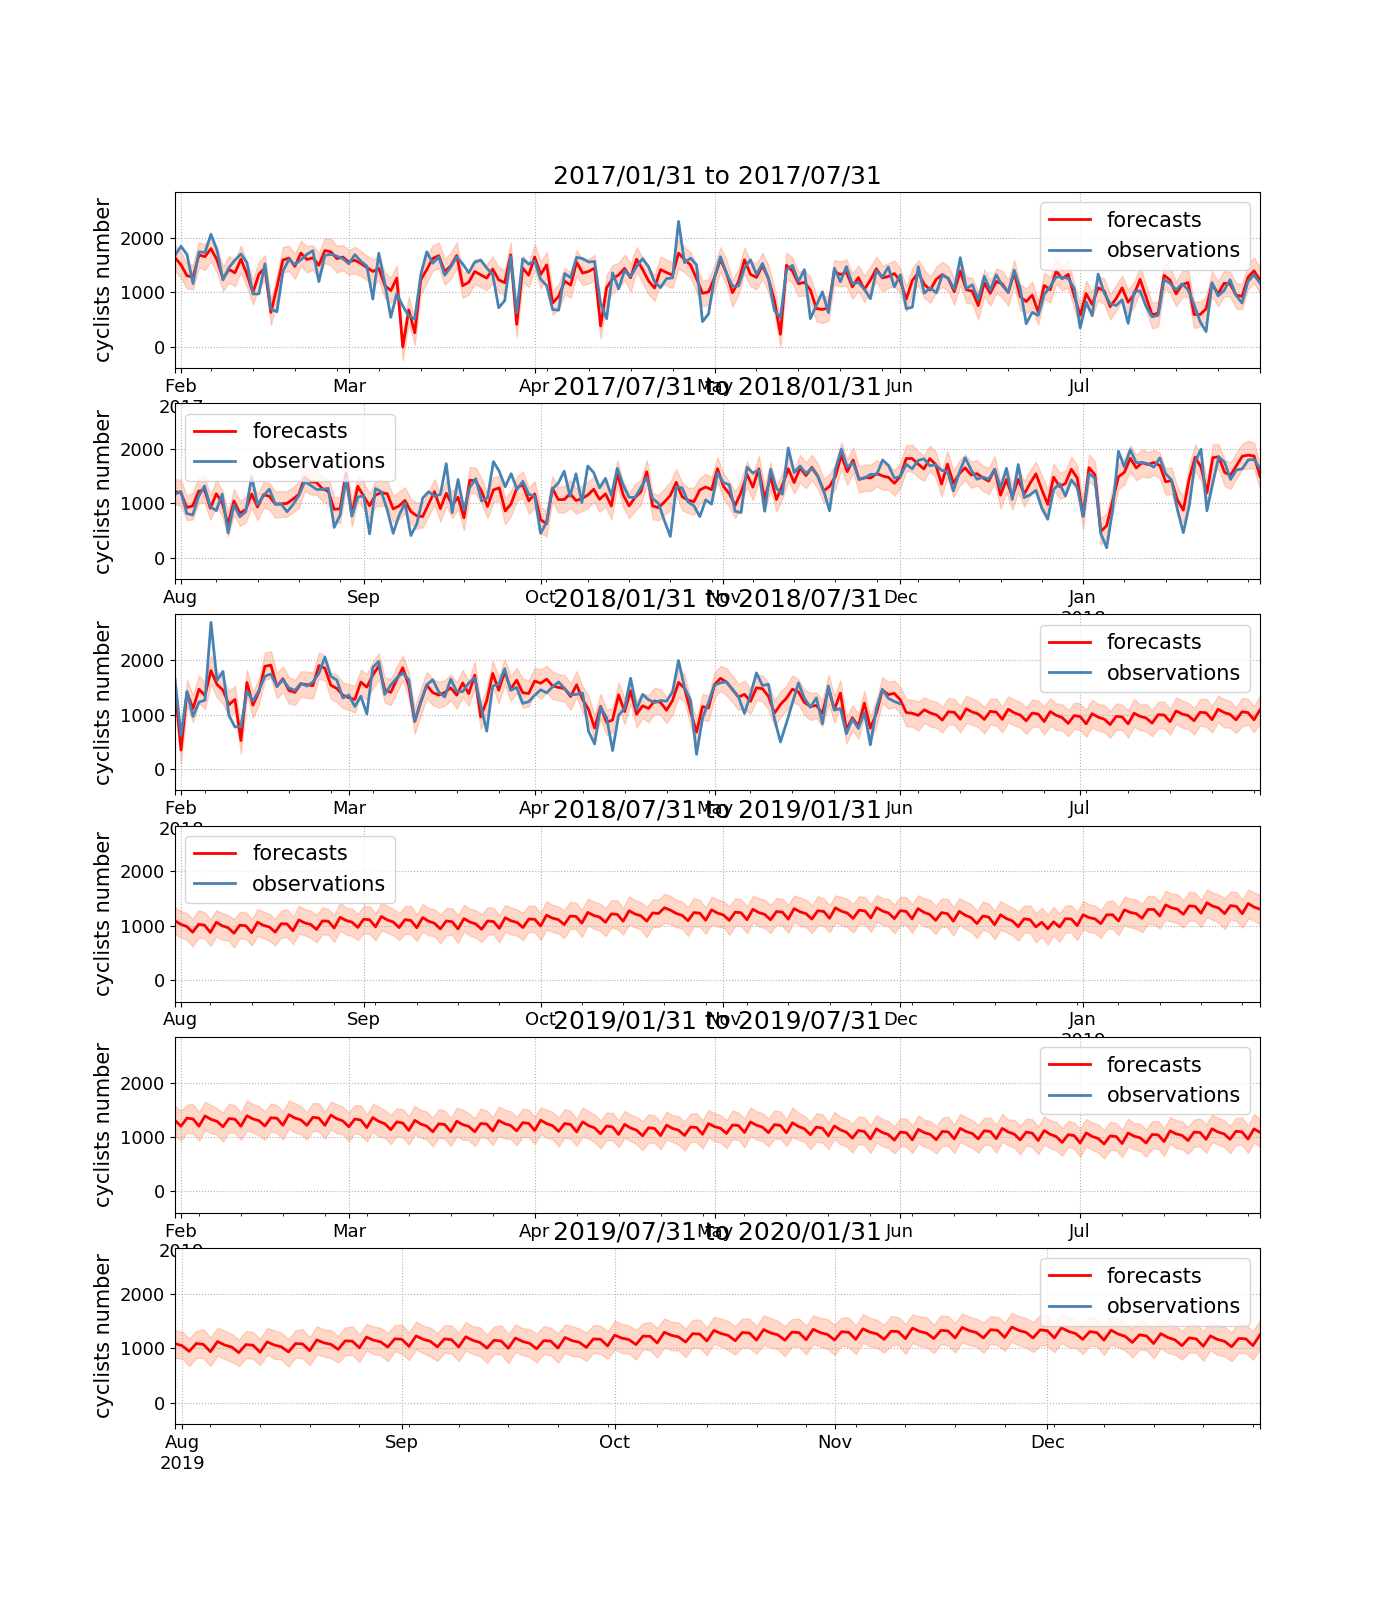
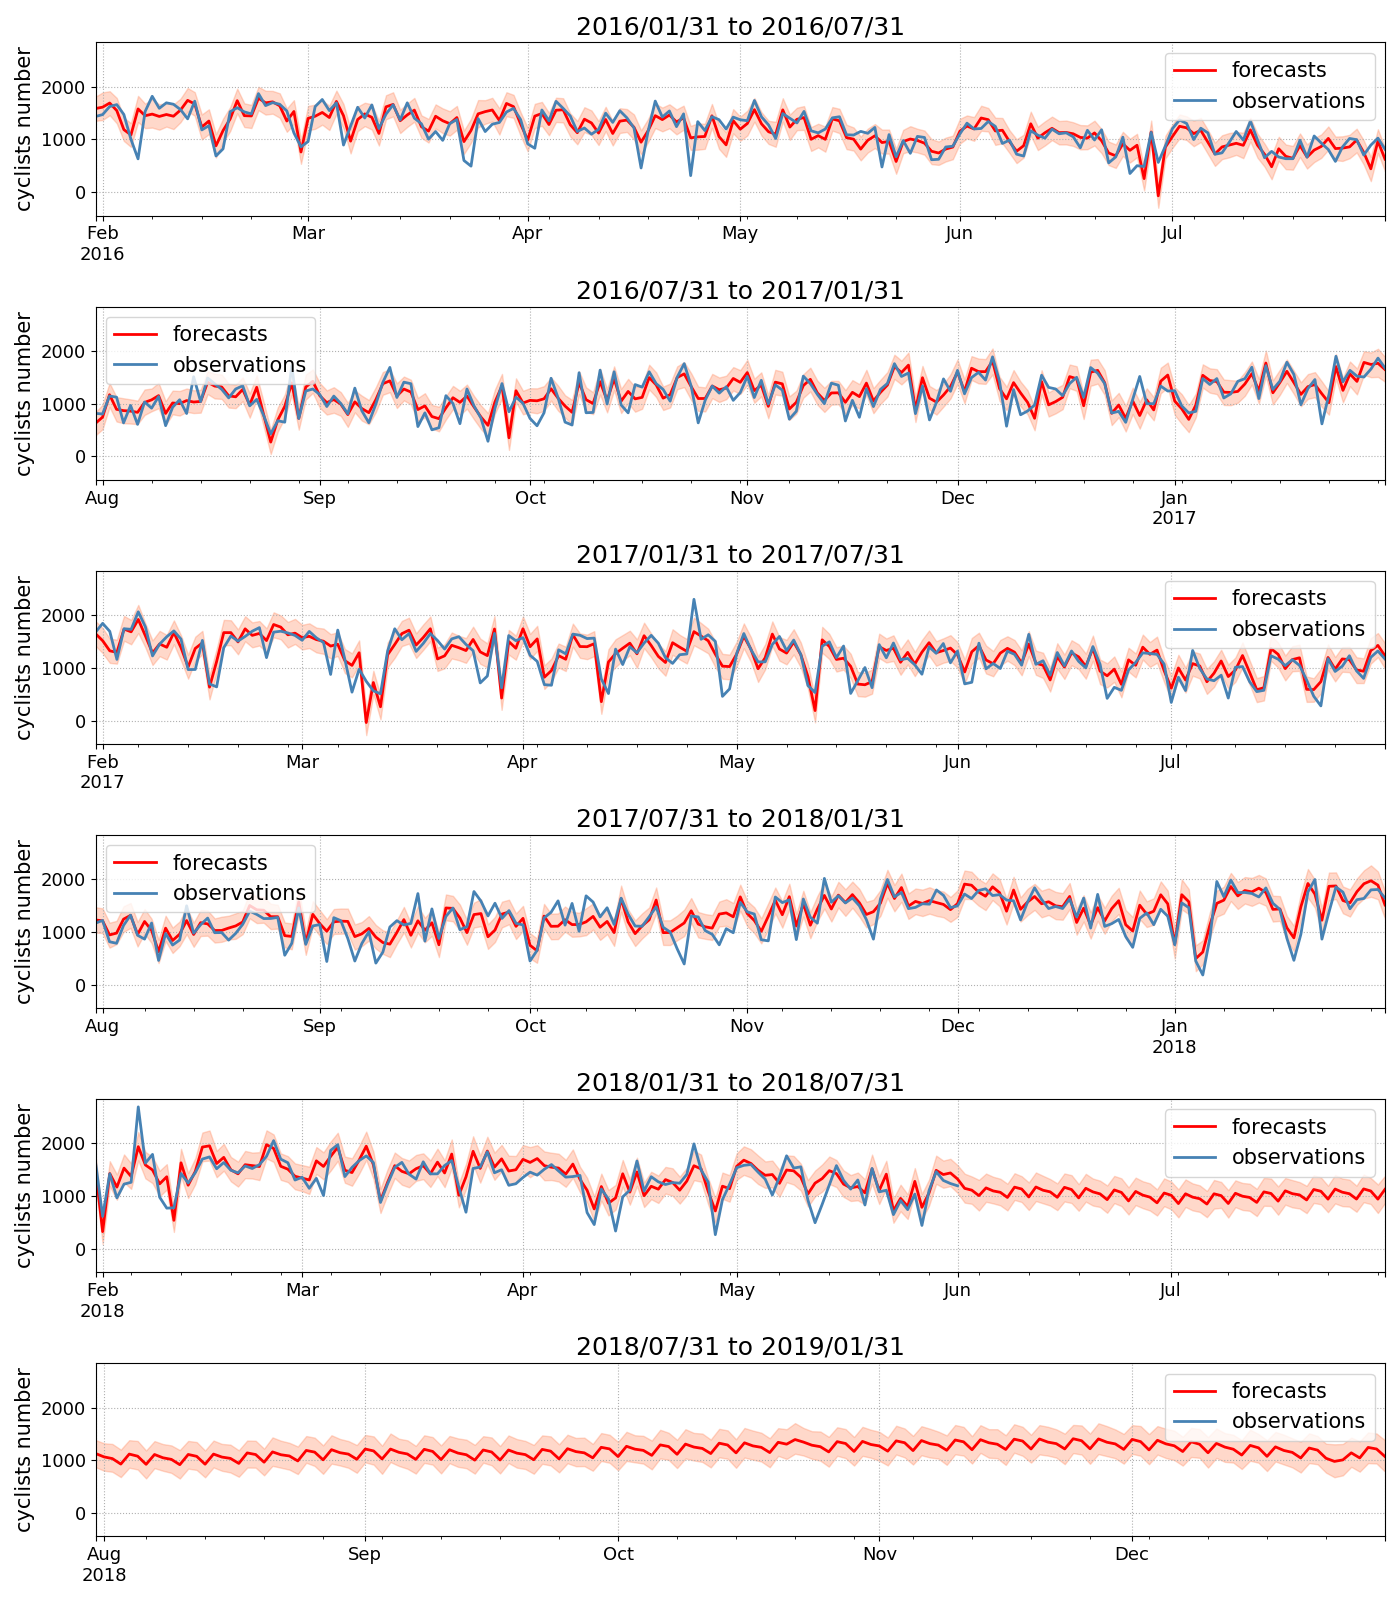
mod: refactored

diff --git a/app/main.py b/app/main.py
@@ -1,59 +1,5 @@
-import datetime
-import pathlib
-from dateutil.relativedelta import relativedelta
-from matplotlib import pyplot
 from fbprophet import Prophet
 import utility.plotter as plotter
-
-
-class DatasetCyclicAuckland(object):
-    def __init__(self, data_file="data/data.tsv"):
-        self.data_df = None
-        self.data_file = data_file
-        self._load()
-        self.train_df = None
-        self.test_df = None
-
-    def _load(self):
-        data_df = pandas.read_csv(self.data_file, sep="\t", header=0, parse_dates=True)
-        data_df.rename(columns=dict(datetime="ds"), inplace=True)
-        data_df.index = data_df.ds
-        assert "ds" in data_df.columns
-        assert "y" in data_df.columns
-        self.data_df = data_df
-        return self
-
-    def split(self, predict_date: str):
-        train_df = self.data_df[:predict_date].iloc[:-1]
-        test_df = self.data_df[predict_date:]
-        train_df.reset_index(drop=True, inplace=True)
-        test_df.reset_index(drop=True, inplace=True)
-        assert "ds" in train_df.columns
-        assert "y" in train_df.columns
-        assert "ds" in test_df.columns
-        assert "y" in test_df.columns
-        return train_df, test_df
-
-
-def save_plot(img_file, forecast_df, train_df, test_df, plot_freq="6M"):
-    verif = plotter.make_verif(forecast_df, train_df, test_df)
-    s = verif.ds.iloc[0]
-    e = verif.ds.iloc[-1]
-    intervals = pandas.date_range(s, e, freq=plot_freq) + datetime.timedelta()
-    if intervals[-1] < e:
-        date_end = intervals[-1] + relativedelta(months=6)
-        intervals = pandas.Series(intervals).append(pandas.Series(date_end))
-
-    n = len(intervals) - 1
-    _, axes = pyplot.subplots(nrows=n, figsize=(14, 16), sharey=True)
-
-    for idx, (s, e) in enumerate(zip(intervals[:-1], intervals[1:])):
-        s = s.strftime("%Y/%m/%d")
-        e = e.strftime("%Y/%m/%d")
-        ax = axes[idx]
-        plotter.make_plot_block(verif, s, e, ax=ax)
-    pathlib.Path("img").mkdir(parents=True, exist_ok=True)
-    pyplot.savefig(img_file)
 
 
 def create_model(holidays_df) -> Prophet:
@@ -74,10 +20,11 @@ def create_model(holidays_df) -> Prophet:
 if __name__ == "__main__":
     import pandas
     from sklearn.pipeline import make_pipeline
-    from model.prophet import Preprocess, EstimatorProphet
+    from model.prophet import PreprocessProphet, EstimatorProphet
+    from dataset.auckset import DatasetCyclicAuckland
 
-    predict_date = "2017-01-01"
-    predict_by = "2019-12-31"
+    predict_date = "2016-01-01"
+    predict_by = "2018-12-31"
 
     holidays_df = pandas.read_csv("data/holiday.tsv", sep="\t", header=0)
     dcaset = DatasetCyclicAuckland()
@@ -89,26 +36,26 @@ if __name__ == "__main__":
     m = create_model(holidays_df)
     exogs = []
     steps = [
-        Preprocess(),
+        PreprocessProphet(),
         EstimatorProphet(holidays_df, exogs, m),
     ]
     pipe = make_pipeline(*steps)
 
     pipe.fit(train_df, y=None)
     forecast_df = pipe.predict(test_df, by_date=predict_by)
-    save_plot("img/forecasted_simple.png", forecast_df, train_df, test_df)
+    plotter.save_plot("img/forecasted_simple.png", forecast_df, train_df, test_df)
 
     # with exog
     m = create_model(holidays_df)
     exogs = ["temp", "rain", "sun", "wind"]
     steps = [
-        Preprocess(),
+        PreprocessProphet(),
         EstimatorProphet(holidays_df, exogs, m),
     ]
     pipe = make_pipeline(*steps)
 
     pipe.fit(train_df, y=None)
     forecast_df = pipe.predict(test_df, by_date=predict_by)
-    save_plot("img/forecasted_exog.png", forecast_df, train_df, test_df)
+    plotter.save_plot("img/forecasted_exog.png", forecast_df, train_df, test_df)
 
     print("OK")

diff --git a/app/utility/plotter.py b/app/utility/plotter.py
@@ -1,4 +1,8 @@
+import datetime
+import pathlib
 import pandas
+from dateutil.relativedelta import relativedelta
+from matplotlib import pyplot
 
 
 def make_plot_block(verif, start_date, end_date, ax=None):
@@ -32,3 +36,30 @@ def make_verif(forecast, data_train, data_test):
     data = pandas.concat([data_train, data_test], axis=0)
     forecast.loc[:, "y"] = data.loc[:, "y"]
     return forecast
+
+
+def save_plot(img_file, forecast_df, train_df, test_df, plot_freq="6M"):
+    verif = make_verif(forecast_df, train_df, test_df)
+    predicted_date = test_df.ds.iloc[0]
+
+    s = verif.ds.iloc[0]
+    e = verif.ds.iloc[-1]
+    intervals = pandas.date_range(s, e, freq=plot_freq) + datetime.timedelta()
+    if intervals[-1] < e:
+        date_end = intervals[-1] + relativedelta(months=6)
+        intervals = pandas.Series(intervals).append(pandas.Series(date_end))
+
+    n = len(intervals) - 1
+    _, axes = pyplot.subplots(nrows=n, figsize=(14, 16), sharey=True)
+
+    for idx, (s, e) in enumerate(zip(intervals[:-1], intervals[1:])):
+        s = s.strftime("%Y/%m/%d")
+        e = e.strftime("%Y/%m/%d")
+        ax = axes[idx]
+        make_plot_block(verif, s, e, ax=ax)
+        if s <= predicted_date <= e:
+            pyplot.axvline(x=predicted_date)
+    pyplot.tight_layout()
+
+    pathlib.Path("img").mkdir(parents=True, exist_ok=True)
+    pyplot.savefig(img_file)

diff --git a/app/dataset/auckset.py b/app/dataset/auckset.py
@@ -1,0 +1,31 @@
+import pandas
+from .timeset import TimeSeriesDataset
+
+
+class DatasetCyclicAuckland(TimeSeriesDataset):
+    def __init__(self, data_file="data/data.tsv"):
+        self.data_df = None
+        self.data_file = data_file
+        self._load()
+        self.train_df = None
+        self.test_df = None
+
+    def _load(self):
+        data_df = pandas.read_csv(self.data_file, sep="\t", header=0, parse_dates=True)
+        data_df.rename(columns=dict(datetime="ds"), inplace=True)
+        data_df.index = data_df.ds
+        assert "ds" in data_df.columns
+        assert "y" in data_df.columns
+        self.data_df = data_df
+        return self
+
+    def split(self, predict_date: str) -> (pandas.DataFrame, pandas.DataFrame):
+        train_df = self.data_df[:predict_date].iloc[:-1]
+        test_df = self.data_df[predict_date:]
+        train_df.reset_index(drop=True, inplace=True)
+        test_df.reset_index(drop=True, inplace=True)
+        assert "ds" in train_df.columns
+        assert "y" in train_df.columns
+        assert "ds" in test_df.columns
+        assert "y" in test_df.columns
+        return train_df, test_df

diff --git a/app/model/prophet.py b/app/model/prophet.py
@@ -1,20 +1,10 @@
 import pandas
 import datetime
 from fbprophet import Prophet
+from .base import Transer, Estimator
 
 
-class Transer(object):
-    def __init__(self):
-        pass
-
-    def fit(self, X, y, **params):
-        return self
-
-    def transform(self, X, **params):
-        return X
-
-
-class Preprocess(Transer):
+class PreprocessProphet(Transer):
     def __init__(self):
         pass
 
@@ -23,14 +13,6 @@ class Preprocess(Transer):
 
     def transform(self, train_predict_df, **params):
         return train_predict_df
-
-
-class Estimator(object):
-    def fit(self, X, y, **params):
-        return self
-
-    def predict(self, X, **params):
-        return X
 
 
 class EstimatorProphet(Estimator):

diff --git a/app/model/base.py b/app/model/base.py
@@ -1,0 +1,18 @@
+class Transer(object):
+    def __init__(self):
+        pass
+
+    def fit(self, X, y, **params):
+        return self
+
+    def transform(self, X, **params):
+        return X
+
+
+class Estimator(object):
+    def fit(self, X, y, **params):
+        return self
+
+    def predict(self, X, **params):
+        return X
+

diff --git a/app/dataset/timeset.py b/app/dataset/timeset.py
@@ -1,0 +1,10 @@
+class TimeSeriesDataset(object):
+    def __init__(self, data_file="data/data.tsv"):
+        self.data_df = None
+        self.data_file = data_file
+
+    def _load(self):
+        raise NotImplementedError()
+
+    def split(self, predict_date: str):
+        raise NotImplementedError()
